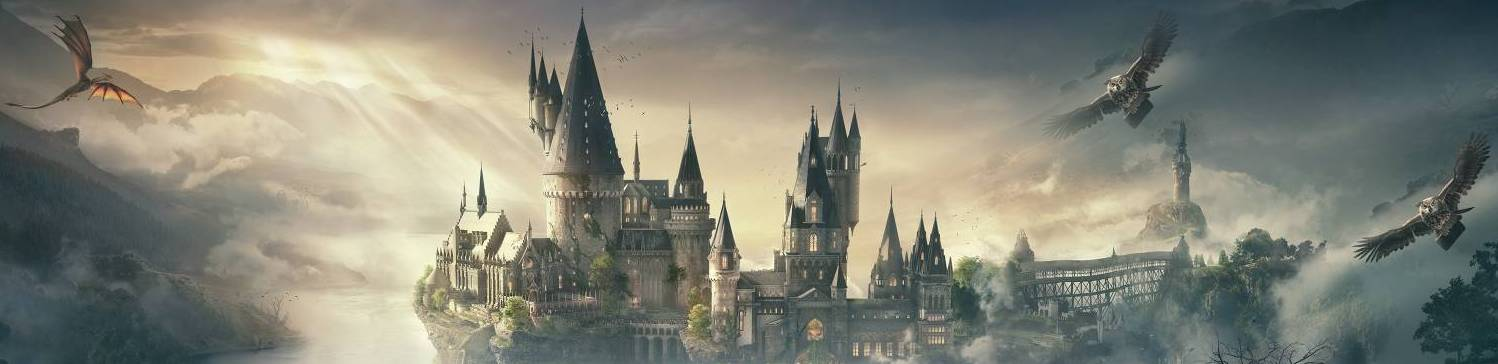
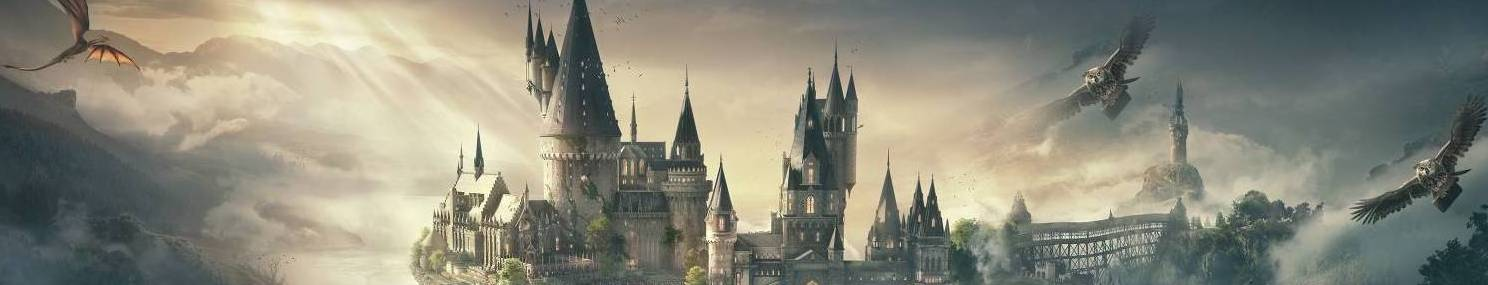
se modifica los estilos

diff --git a/src/css/pages/index.css b/src/css/pages/index.css
@@ -20,13 +20,13 @@ html {
 
 .titulo-principal-home {
   position: absolute;
-  width: 50%;
-  top: 43px;
-  left: 24%;
+  width: 40%;
+  top: 58px;
+  left: 30%;
 }
 
 .nav-principal {
-  height: 55px;
+  height: 47px;
   width: 100%;
 }
 
@@ -69,7 +69,8 @@ html {
     rgba(10, 10, 83, 1) 45%,
     rgba(9, 7, 42, 1) 73%
   );
-  height: 90vh;
+  height: 85vh;
+  margin-top: 38px;
 }
 
 .casas > div {
@@ -80,10 +81,10 @@ html {
 
 .contenedor-casas {
   width: 46vw;
-  height: 70vh;
+  height: 60vh;
   display: grid;
   grid-template-columns: repeat(2, 1fr);
-  padding-top: 80px;
+  padding-top: 130px;
   margin: auto;
 }
 
@@ -101,7 +102,7 @@ html {
 }
 
 .casa {
-  height: 260px;
+  height: 280px;
   background-size: cover;
   background-repeat: no-repeat;
   background-position: center;

diff --git a/src/index.html b/src/index.html
@@ -14,7 +14,7 @@
   <body>
     <nav class="navegacion-princiapl">
         <div class="contenedor-imagen-principal">
-          <img class="img-navegacion-principal"src="./assets/fondo-castillo.jpg" alt="castillo-harry-potter">
+          <img class="img-navegacion-principal"src="./assets/castillo.jpg" alt="castillo-harry-potter">
           <img  class="titulo-principal-home" src="./assets/titulo-h.p.png" alt="titulo">
         </div>
         <div class="nav-principal">
